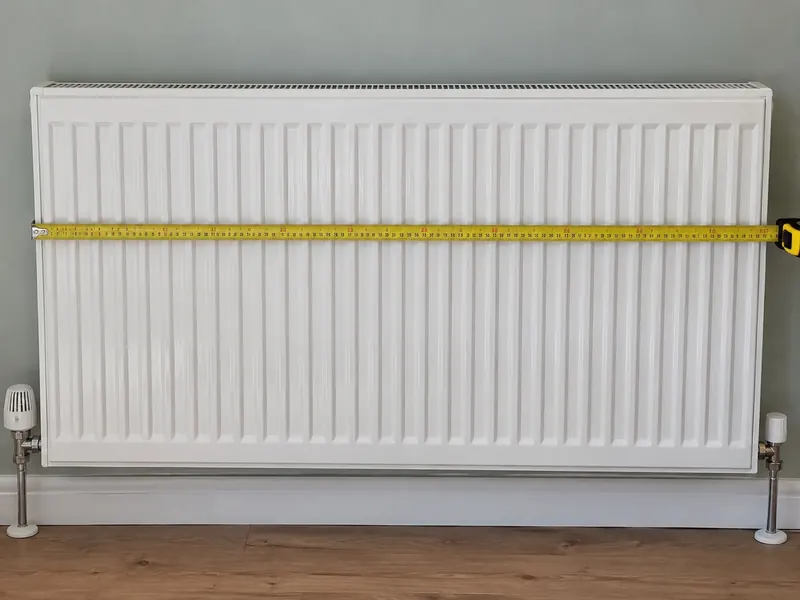
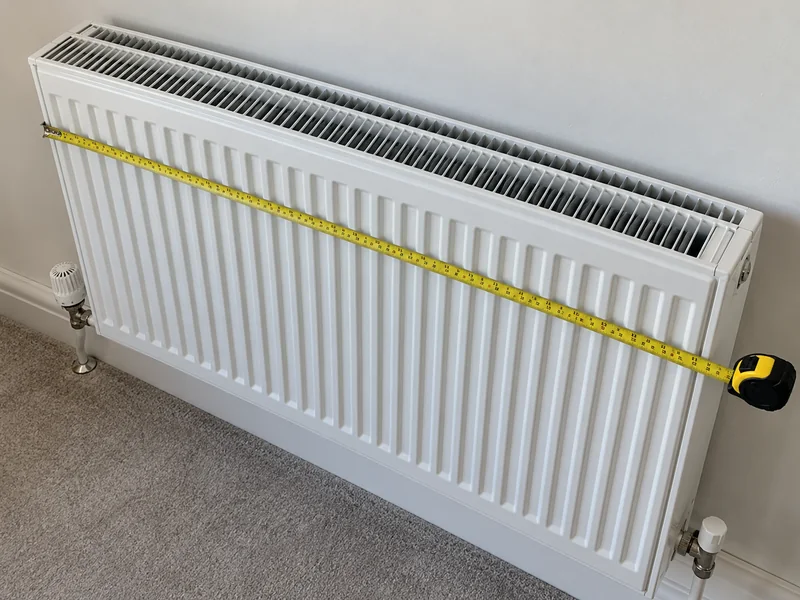
Match radiator example images to single angled photo guidance (#39)

diff --git a/frontend/src/lib/captureExamples.ts b/frontend/src/lib/captureExamples.ts
@@ -17,11 +17,11 @@ export const CAPTURE_EXAMPLES: Record<PhotoKind, Record<'good' | 'bad', Example>
   radiators: {
     good: {
       src: new URL('../assets/capture-examples/radiators-good.webp', import.meta.url).href,
-      alt: 'Radiator photographed from a front corner looking down at about 45 degrees so the front face, top grille and fins, and one end are visible, with a tape measure held across the width.',
+      alt: 'White double-panel convector radiator viewed from a front corner looking down at about 45 degrees, showing the front face, top grille, fins between the panels and end profile, with a tape measure across the width.',
     },
     bad: {
       src: new URL('../assets/capture-examples/radiators-bad.webp', import.meta.url).href,
-      alt: 'Radiator photographed straight front-on where single and double panel radiators look alike and panel and fin counts cannot be read.',
+      alt: 'White panel radiator photographed straight on at radiator height, with a tape measure across the width; the top and end profile are hidden so the number of panels cannot be told.',
     },
   },
   fuse_cutout: {

diff --git a/frontend/src/assets/capture-examples/README.md b/frontend/src/assets/capture-examples/README.md
@@ -19,8 +19,8 @@ no captions, watermarks, collages or diagrams.
 | --- | --- |
 | boiler-good | Sharp straight-on metal data plate filling the frame on white enamel. Exact text: FICTIONAL BOILER; Model H24; Central heating output: 24 kW. All plate edges visible. |
 | boiler-bad | Generic boiler photographed across a utility room; tiny plate too far away to read. |
-| radiators-good | Whole white panel radiator straight-on, both valves and all edges visible, yellow metric tape across width. |
-| radiators-bad | Excessively close crop of the middle of the radiator; all edges outside the frame. |
+| radiators-good | White double-panel convector radiator viewed from a front corner looking down at about 45 degrees; front face, top grille with fins between the panels, and end profile visible; yellow metric tape across the full width. |
+| radiators-bad | Same kind of white panel radiator photographed exactly straight on at radiator mid-height; front face and yellow tape across the width visible, but top, fins and end depth hidden so the panel count cannot be told. |
 | fuse-good | Close-up of sealed black UK service fuse carrier, insulated cables, intact security seal, sharp 80 A marking; nothing opened. |
 | fuse-bad | Unbranded consumer unit with closed translucent cover over breaker toggles; no service fuse cutout. |
 | outdoor-good | Proposed heat-pump spot from a few steps back, showing brick wall, window, paving width/depth, fence, drainpipe and measuring tape; no unit installed. |
@@ -29,3 +29,15 @@ no captions, watermarks, collages or diagrams.
 | loft-bad | Boarded loft with plain boxes, no visible insulation so depth cannot be judged. |
 | bill-good | Sharp fictional annual gas statement on wood, all corners visible, large legible text: Hearthleaf Energy; FICTIONAL EXAMPLE; Annual gas statement; Usage period; 01 April 2025 - 31 March 2026; Gas used; 12,450 kWh. No personal identifiers. |
 | bill-bad | Close crop of charges panel only: Hearthleaf Energy; FICTIONAL EXAMPLE; Gas charges; Energy charge GBP 842.10; Standing charge GBP 110.00; Total GBP 952.10. No kWh or dates. |
+
+The two radiator assets were regenerated with Codex's built-in image generation
+tool on 24 October 2026 to match the single-photo capture guidance. The radiator
+prompts used the shared direction above, a pale wall, skirting board and neutral
+floor, natural indoor daylight, an unbranded Type 22 double-panel convector, and
+a taut yellow tape hooked across the full width without hands or people. Good
+explicitly requested the elevated front-corner view and mechanically plausible
+panels and fins; Avoid explicitly requested a level lens parallel to the front,
+with no visible top or end depth. No reference photos or Gemini API calls were
+used. Both were resized to 800 × 600 and encoded as WebP, then visually checked
+for the camera angle, visible/hidden panel depth and tape measure. The UI retains
+the “Illustration · fictional example” label for both images.
